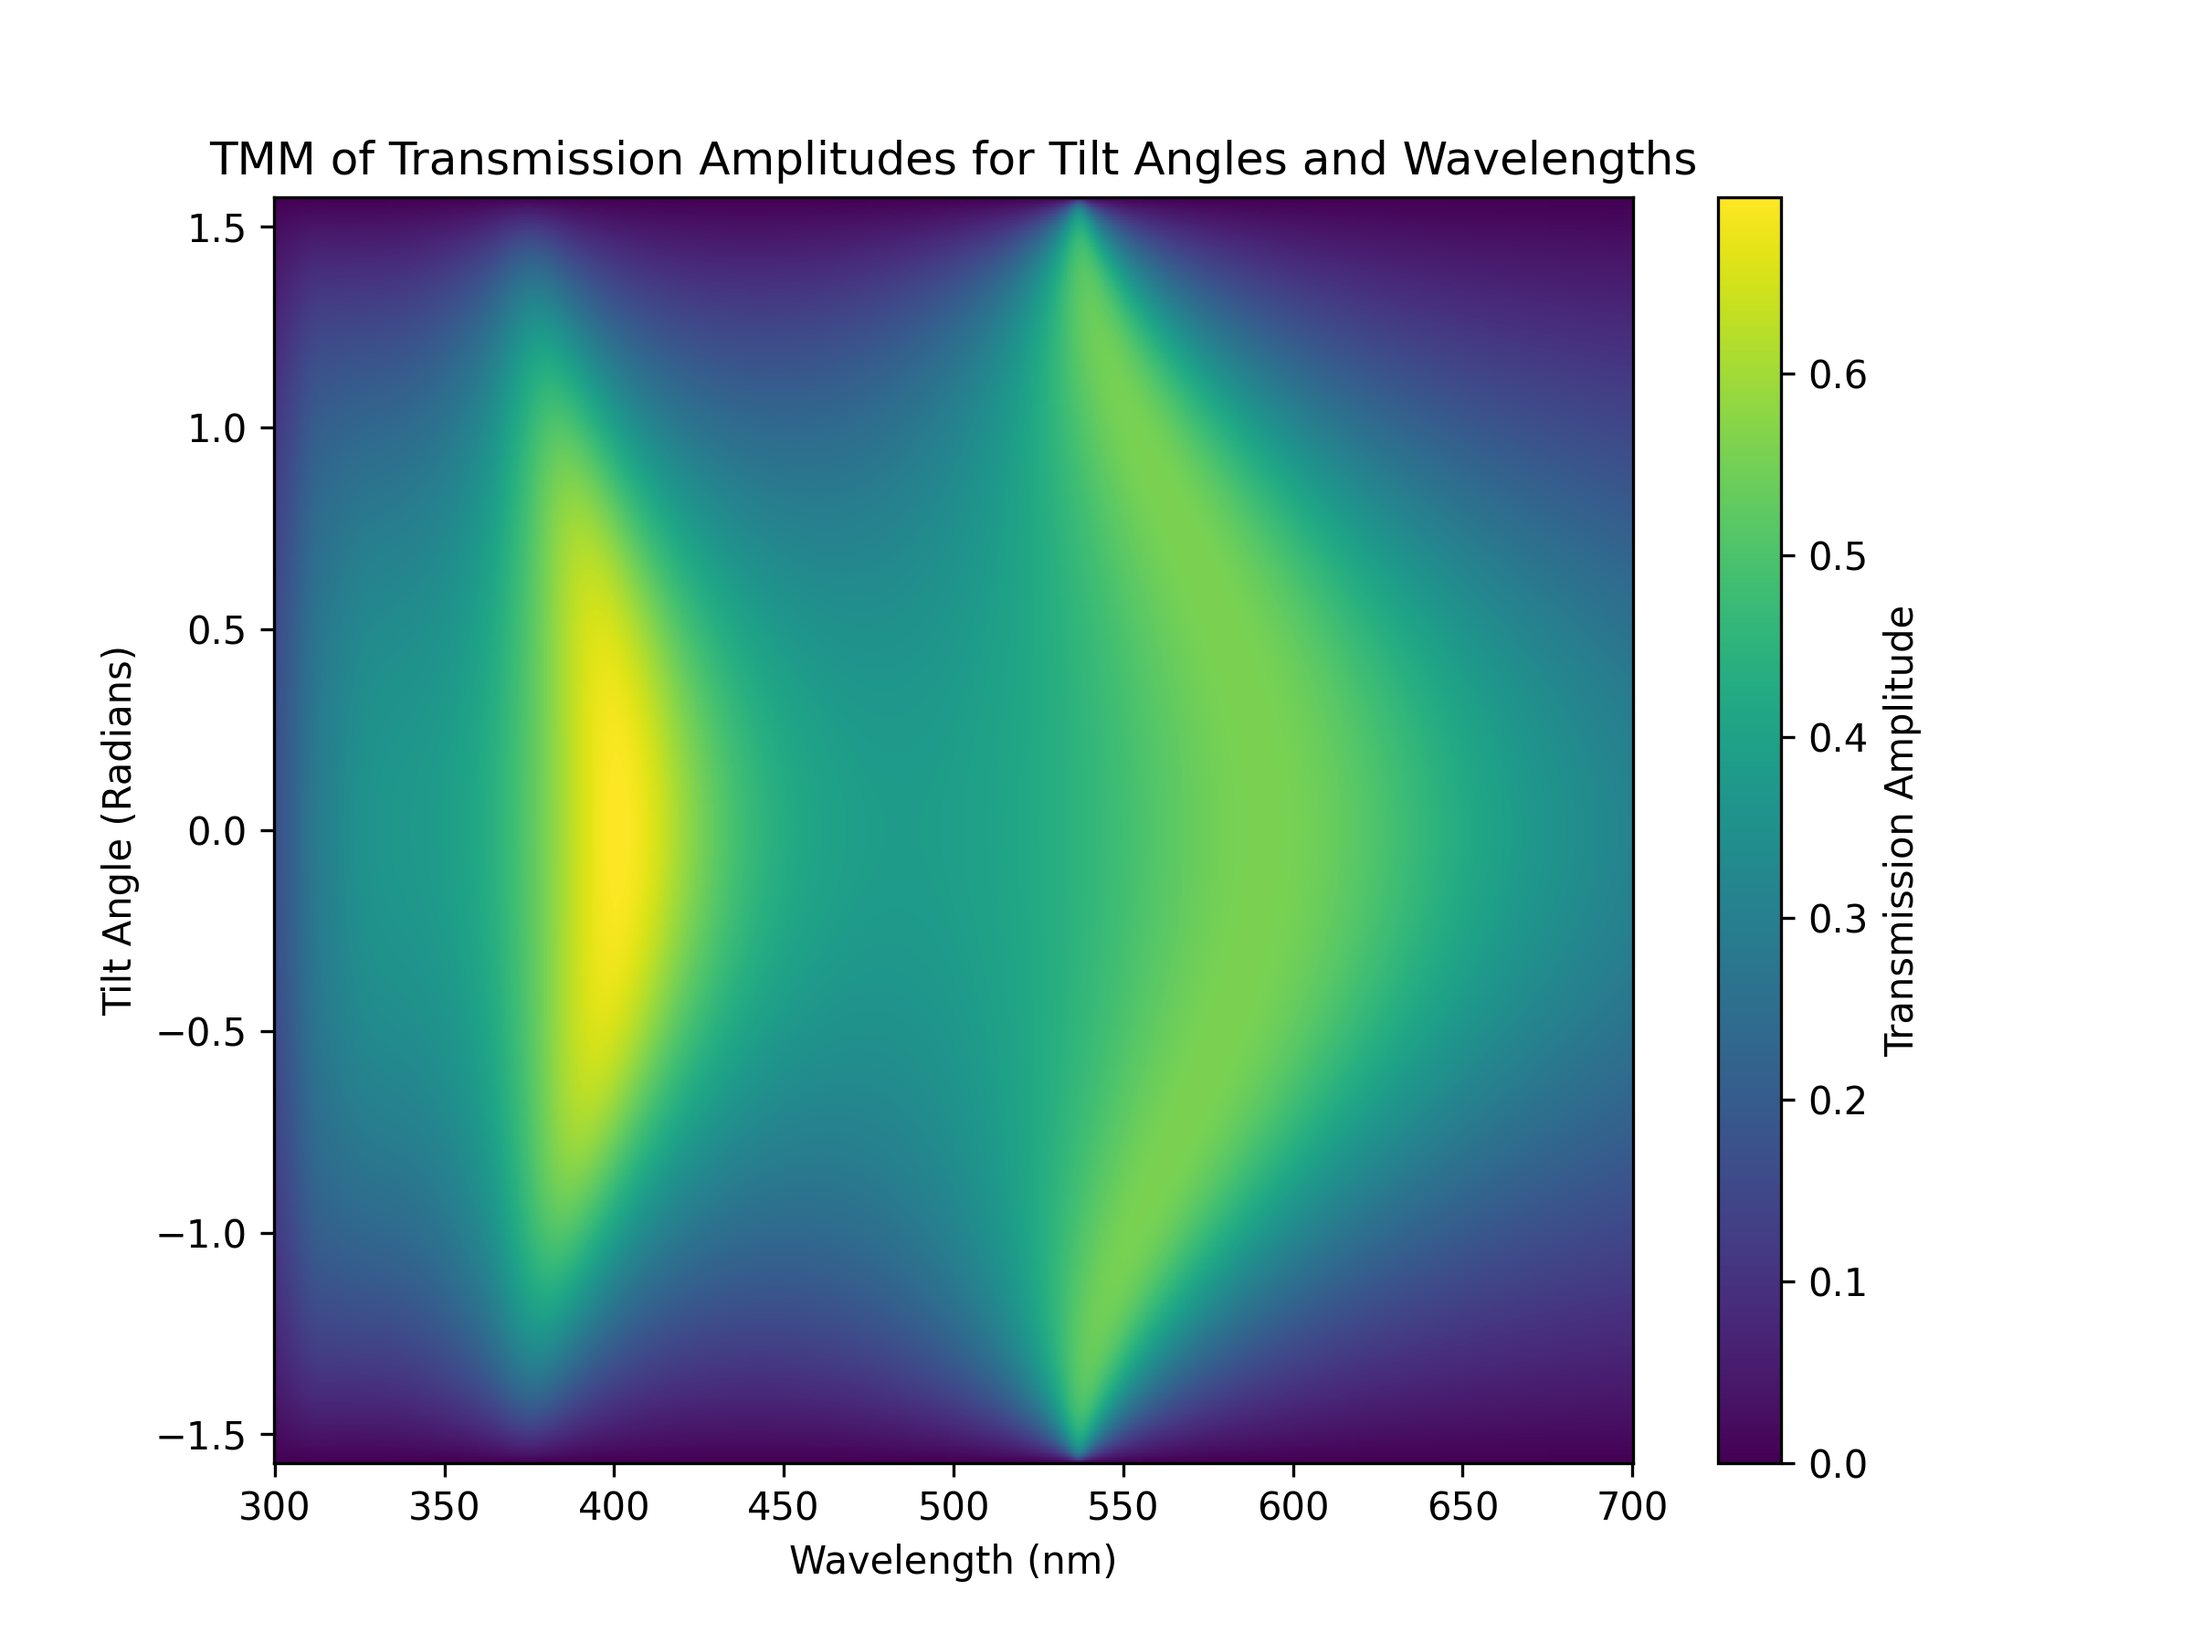
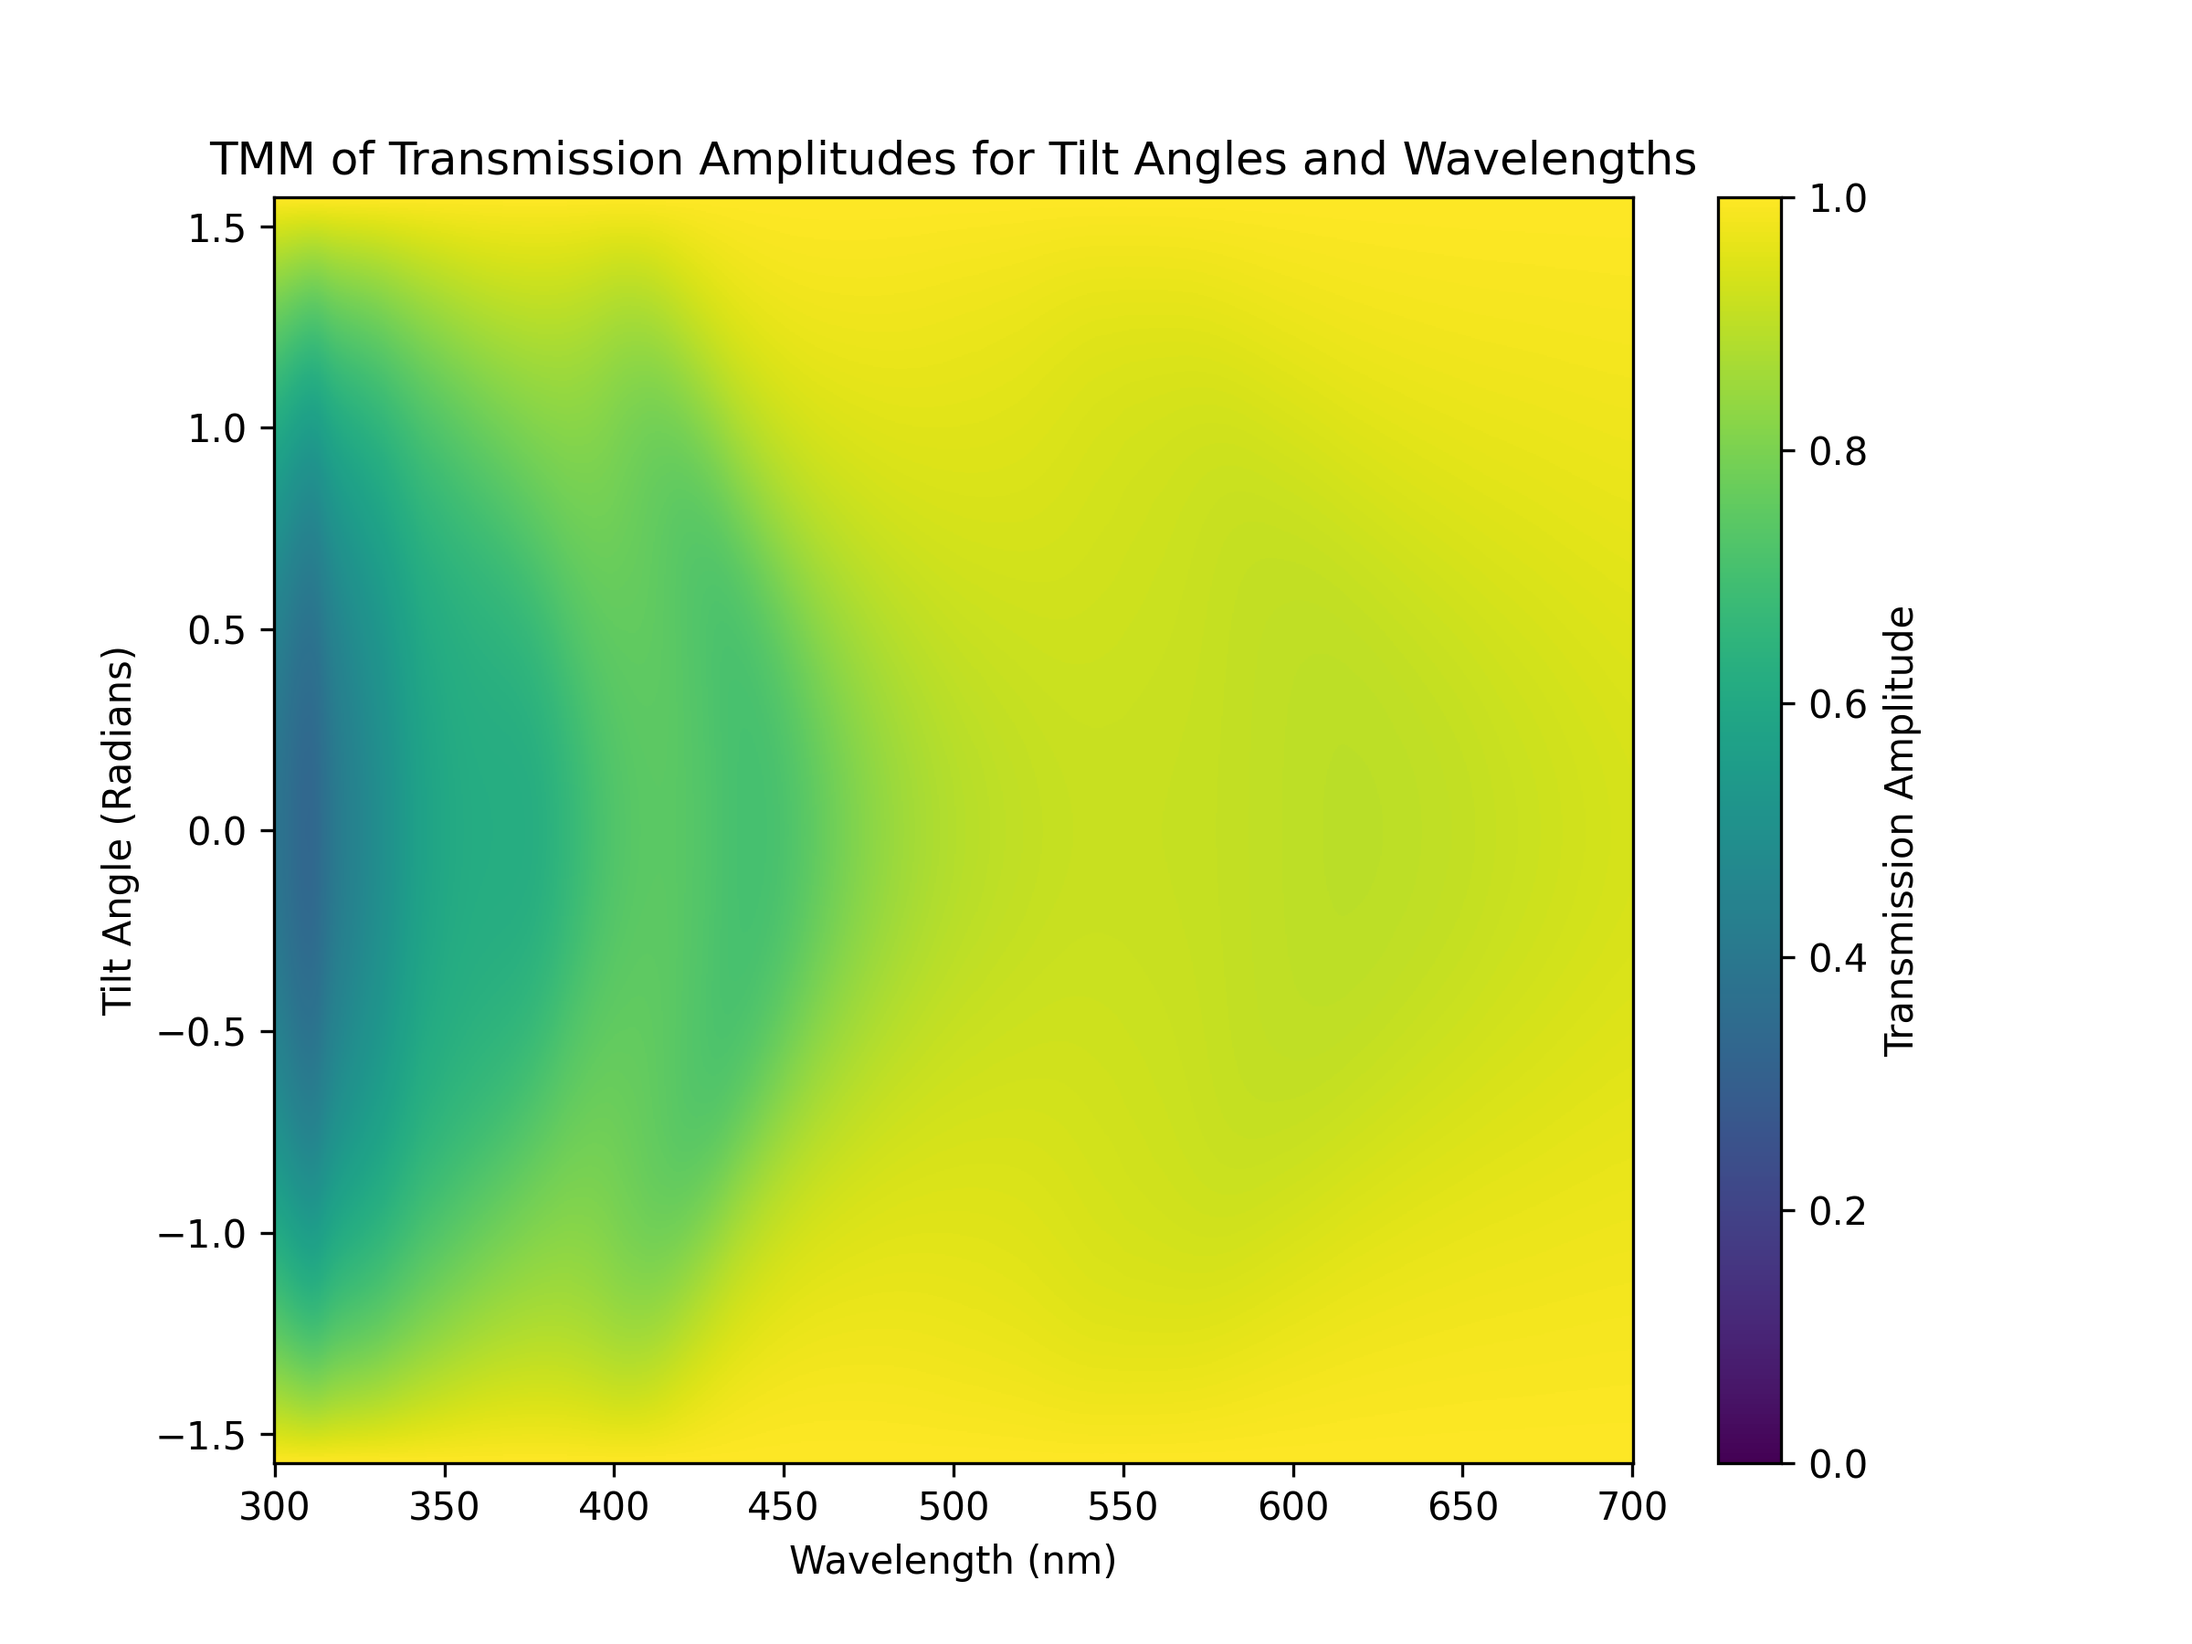
added visualisation of eg_tmm

diff --git a/src/main.py b/src/main.py
@@ -58,8 +58,8 @@ def main(start_time_str='2024-07-30T00:00:00Z', end_time_str='2024-07-30T23:59:5
     exposure_maps = irradiance.shading_exposure_map(angle_grid, surface_angle_grid, sun_vecs)
     optical_wavelengths, optical_intensities, spectra_frames = sun.get_spectra(300, 700) #zero tilt
 
-    material_list = ['ag', 'moo3', 'zno', 'moo3', 'zno', 'ito']
-    d_list = np.array(['inf', 30, 7, 35, 15, 25, 110, 'inf'])
+    material_list = ['ag', 'moo3', 'pce10:pc61bm', 'zno', 'moo3', 'pdbt[2f]t:pc71bm', 'zno', 'ito']
+    d_list = np.array(['inf', 30, 7, 70, 35, 15, 100, 25, 110, 'inf'])
     complex_array = tracer.n_list_wavelength(material_list, optical_wavelengths)
     #t_grid_frames = irradiance.t_grid(sun_incident, optical_wavelengths, complex_array, d_list)
     #solar_cell_spectra = irradiance.solar_cells_irradiance_rays(optical_intensities, t_grid_frames, solar_cells)
@@ -74,65 +74,6 @@ def main(start_time_str='2024-07-30T00:00:00Z', end_time_str='2024-07-30T23:59:5
     #print(coh)
     #print(coh['T'])
 
-    optical_wavelengths = np.linspace(300, 700, 1000)
-
-    complex_array = tracer.n_list_wavelength(material_list, optical_wavelengths)
-    print(complex_array[10])
-
-    complex_array = np.array(complex_array)  # Refractive index array
-    d_list = np.array(d_list)  # Thickness array
-    d_list = d_list.astype(np.float64)  # Convert from string to float
-    sun_incident = np.array(sun_incident[72][:, 0])  # Ensure sun_incident is a numpy array
-    optical_wavelengths = np.array(optical_wavelengths) 
-
-        # Assuming complex_array is your refractive index array (N) and d_list is the thickness array (T)
-    N = np.array(complex_array, dtype=np.complex128)  # Convert N to numpy array
-    T = np.array(d_list, dtype=np.float64)  # Convert T to numpy array
-
-    # Swap the axes of N to have shape [8, 38] instead of [38, 8]
-    N = np.swapaxes(N, 0, 1)  # Swap axes so that layers come first (N shape should be [8, 38])
-
-    # Incident angles and wavelengths as numpy arrays
-    Theta = np.linspace(-np.pi/2, np.pi/2, 1000)  # Incident angles (Theta)
-    optical_wavelengths = np.array(optical_wavelengths, dtype=np.float64)  # Wavelengths
-
-        # Check the shapes and data types after conversion
-    print("N shape:", N.shape)  # Should be (8, 38)
-    print("T shape:", T.shape)  # Should be (8)
-    print("Theta shape:", Theta.shape)  # Check the shape of incident angles array
-    print("optical_wavelengths shape:", optical_wavelengths.shape)  # Check the shape of wavelength array
-
-    # If you were previously using torch-based functions, replace them with numpy equivalents or modify the function you're using accordingly.
-    O = vectmm.coh_tmm('s', N, T, Theta, optical_wavelengths)  # Assuming vectmm.coh_tmm works with numpy arrays
-    t = O['T']  # Transmission powers
-    t_amp = np.sqrt(t)
-
-    # Output the shape of the result
-    print(t.shape)
-    print(np.max(t))
-    print(np.max(t_amp))
-
-    plt.figure(figsize=(8, 6))
-
-    # Create a heatmap using pcolormesh
-    plt.pcolormesh(optical_wavelengths, Theta, t_amp, cmap='viridis', shading='auto', vmin=0, vmax=np.max(t_amp))
-
-    # Add a color bar to show the transmission amplitude scale (0 to 1)
-    cbar = plt.colorbar()
-    cbar.set_label('Transmission Amplitude')
-
-    # Label the axes
-    plt.xlabel('Wavelength (nm)')
-    plt.ylabel('Tilt Angle (Radians)')
-
-    # Set a title for the plot
-    plt.title('TMM of Transmission Amplitudes for Tilt Angles and Wavelengths')
-
-    plt.savefig('figures/tmm-transmission.png', dpi=300)
-
-    # Display the plot
-    plt.show()
-    
     #diffuse_irradiance_frames = irradiance.diffuse_irradiance_ground(distance_grid, separation_unit_vector_grid, normals_unit_ground, normals_unit_surface, areas_surface, irradiance_frames, transmissivity)
     #direct_irradiance_frames = irradiance.direct_irradiance_ground(normals_unit_ground, sun_vecs, spectra_frames, transmissivity)
     #direct_irradiance_frames = irradiance.ray_trace_to_surface(ground_grid, normals_unit_ground, surface_grid, distance_grid, sun_vecs, irradiance_frames, transmissivity)
@@ -159,9 +100,6 @@ def main(start_time_str='2024-07-30T00:00:00Z', end_time_str='2024-07-30T23:59:5
 
     #viz.plot_power(time_array, power_total_ground_diffuse, power_total_ground_direct, power_total_out, 'figures/power-received.png')
     
-    #viz.plot_coverage(surface_grid, visible_solid_angle)
-    # Compute visible solid angles
-
 if __name__ == '__main__':
     import sys
     if len(sys.argv) == 1:

diff --git a/src/irradiance.py b/src/irradiance.py
@@ -1,8 +1,7 @@
 import numpy as np
 import tmm_fast as tmm
 from scipy.integrate import trapezoid
-
-
+import tracing as tracer
 
 class TunnelIrradiance:
     def __init__(self, polytunnel, radius, length):
@@ -213,6 +212,31 @@ class TunnelIrradiance:
             shaded_irradiance_frames.append(new_map)
 
         return shaded_irradiance_frames
+    
+    def eg_t_grid(self, material_list, d_list):
+        
+        optical_wavelengths = np.linspace(300, 700, 1000)
+        Theta = np.linspace(-np.pi/2, np.pi/2, 1000)  # Incident angles (Theta)
+        complex_array = tracer.n_list_wavelength(material_list, optical_wavelengths)
+        optical_wavelengths = np.array(optical_wavelengths, dtype=np.float64)  # Wavelengths
+
+        complex_array = np.array(complex_array)  # Refractive index array
+        d_list = np.array(d_list)  # Thickness array
+        d_list = d_list.astype(np.float64)  # Convert from string to float
+        sun_incident = np.array(sun_incident[72][:, 0])  # Ensure sun_incident is a numpy array
+        optical_wavelengths = np.array(optical_wavelengths) 
+
+        N = np.array(complex_array, dtype=np.complex128)  # Convert N to numpy array
+        T = np.array(d_list, dtype=np.float64)  # Convert T to numpy array
+        N = np.swapaxes(N, 0, 1)  # Swap axes so that layers come first (N shape should be [8, 38])
+
+        O = tmm.coh_tmm('s', N, T, Theta, optical_wavelengths)  # Assuming vectmm.coh_tmm works with numpy arrays
+        t = O['T']  # Transmission powers
+        r = O['R'] #Reflection powers
+        t_amp = np.sqrt(t)
+        r_amp = np.sqrt(r)
+
+        return t_amp, r_amp
     
     def t_grid(self, incident_grid, optical_wavelengths, n_list, d_list):
         

diff --git a/src/visualisation.py b/src/visualisation.py
@@ -3,7 +3,6 @@ from matplotlib.animation import FuncAnimation
 import numpy as np
 from datetime import timedelta
 
-
 def round_10_min(dt):
     # Find the number of minutes past the hour
     minutes = dt.minute
@@ -182,4 +181,28 @@ def plot_coverage(surface_grid, visible_solid_angle):
     plt.ylabel('Y')
     plt.title('Visible Sky Coverage on Central Polytunnel')
     plt.show()
+
+def tmm_grid(optical_wavelengths, Theta, t_amp):
+    
+    plt.figure(figsize=(8, 6))
+
+    # Create a heatmap using pcolormesh
+    plt.pcolormesh(optical_wavelengths, Theta, t_amp, cmap='viridis', shading='auto', vmin=0, vmax=np.max(t_amp))
+
+    # Add a color bar to show the transmission amplitude scale (0 to 1)
+    cbar = plt.colorbar()
+    cbar.set_label('Transmission Amplitude')
+
+    # Label the axes
+    plt.xlabel('Wavelength (nm)')
+    plt.ylabel('Tilt Angle (Radians)')
+
+    # Set a title for the plot
+    plt.title('TMM of Transmission Amplitudes for Tilt Angles and Wavelengths')
+
+    plt.savefig('figures/tmm-transmission.png', dpi=300)
+
+    # Display the plot
+    plt.show()
+    
 
